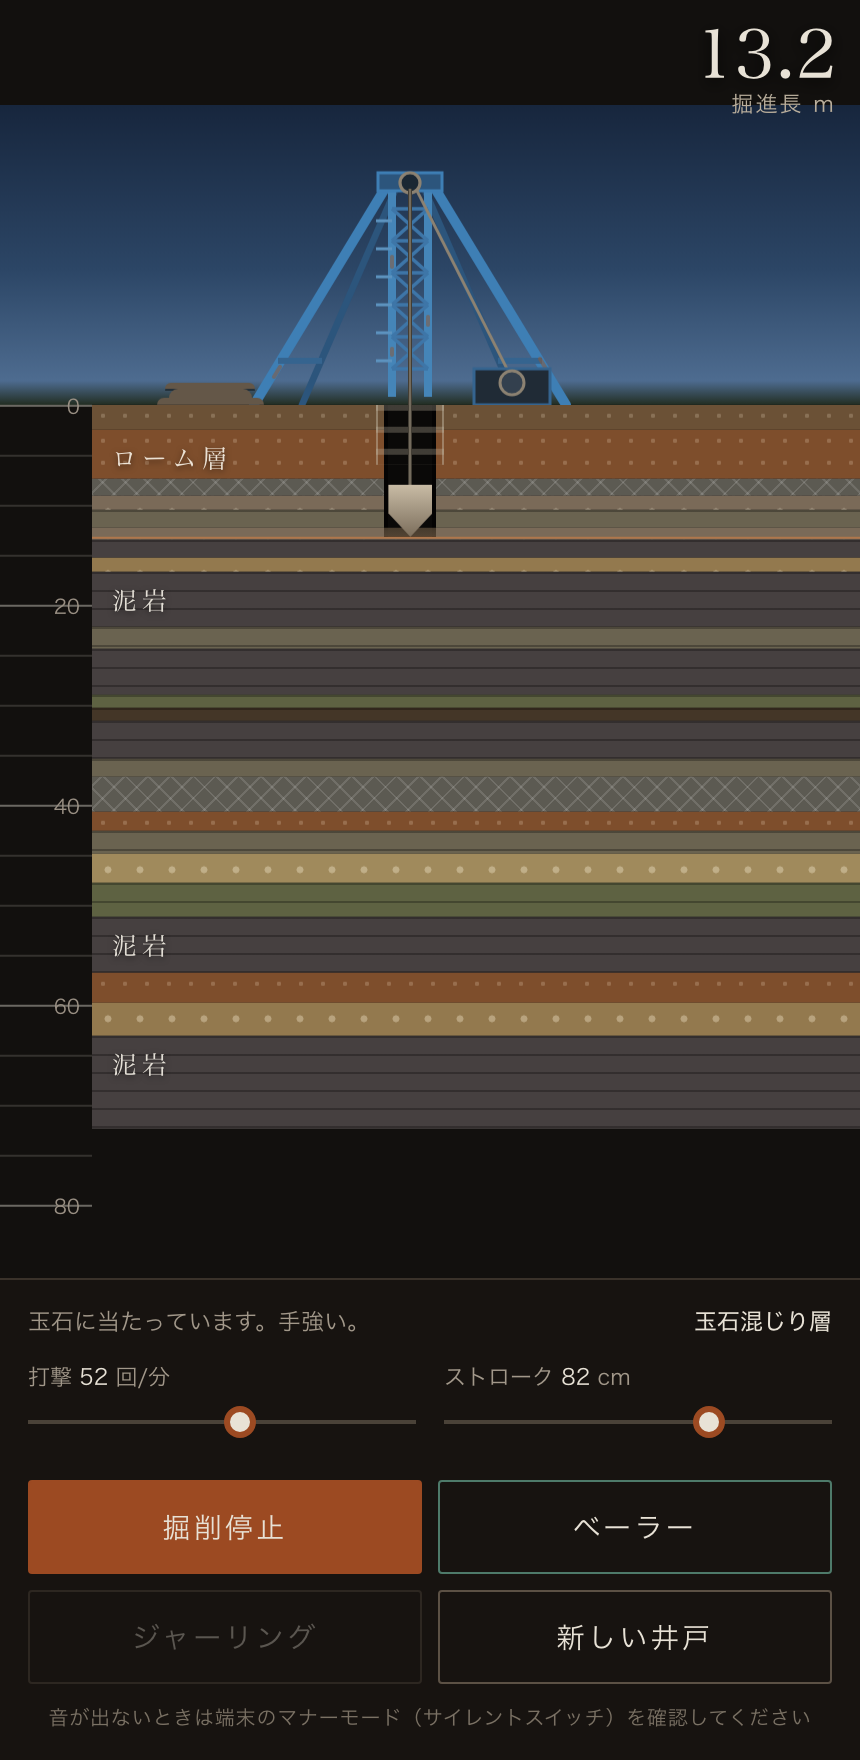
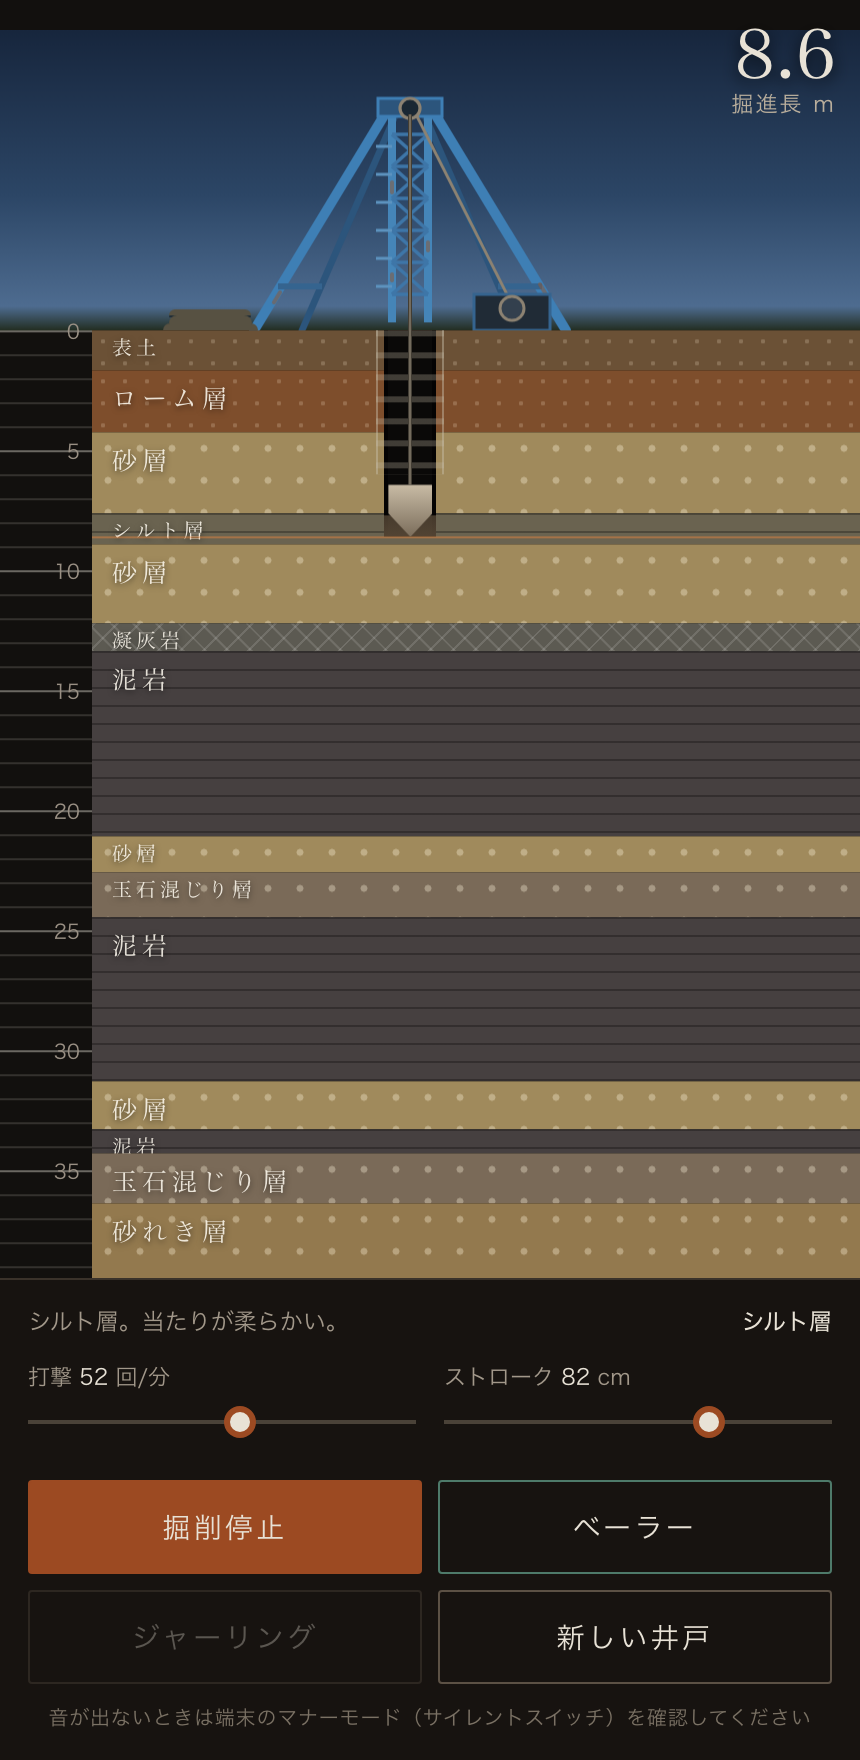
パーカッション編を修正版に差し替え（縮尺1m=12px）
薄い地層の層名が重なって読めなかった問題への対応。柱状図の縮尺を広げ、
目盛りを1m刻みにした版に差し替え。スクリーンショットとOGPカードも撮り直した。

diff --git a/percussion/index.html b/percussion/index.html
@@ -264,7 +264,7 @@
 </div>
 
 <script>
-const PXM = 5;                 // 1m = 5px
+const PXM = 12;                // 1m = 12px（薄層の名前が読める縮尺）
 const SUB = 4;                 // 1打撃を4分割した音楽グリッド
 const CROWN_PX = -108;         // やぐらクラウン滑車のy（stack座標）
 const SURF_CASING = 6;         // 表層ケーシング m
@@ -344,11 +344,11 @@ function render(){
   $('#hole').style.height='0px';
   $('#casing').style.height='0px';
   const rmax=Math.ceil((G.max+8)/5)*5;
-  for(let m=0;m<=rmax;m+=5){
+  for(let m=0;m<=rmax;m+=1){                 // 1目盛り1m、5mごとに太線と数字
     const t=document.createElement('div');
-    t.className='tick'+(m%20===0?' major':'');
+    t.className='tick'+(m%5===0?' major':'');
     t.style.top=m*PXM+'px';
-    if(m%20===0) t.innerHTML='<span>'+m+'</span>';
+    if(m%5===0) t.innerHTML='<span>'+m+'</span>';
     ruler.appendChild(t);
   }
   // やぐら・掘りカス山を孔芯に合わせる
@@ -588,7 +588,7 @@ function cycleStep(t){
 function addPile(bailedM){
   const L=layerAt(Math.max(0,depth-.5));
   const seg=document.createElement('div');
-  seg.style.height=Math.max(2,bailedM*PXM*.4)+'px';
+  seg.style.height=Math.max(2,bailedM*PXM*.16)+'px';
   seg.style.width=(34+Math.random()*14)+'px';
   seg.style.background=L.c;
   seg.style.filter='brightness(.82)';
@@ -788,7 +788,7 @@ function paint(){
     const spb=60/bpm;
     let p=(now-lastBlowT)/spb; p=Math.min(1,Math.max(0,p));
     const prof=p<.65?p/.65:1-Math.pow((p-.65)/.35,2);
-    ty=depth-prof*(stroke/100)*4;             // 持ち上げは誇張表示
+    ty=depth-prof*(stroke/100)*20/PXM;        // 持ち上げは誇張表示（px基準）
   }
   camY+=(Math.max(-6,ty)-camY)*Math.min(1,dt*5);
   $('#stack').style.transform='translateY('+(anchor-camY*PXM)+'px)';
